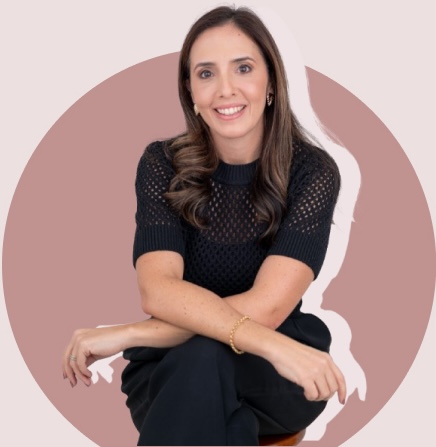
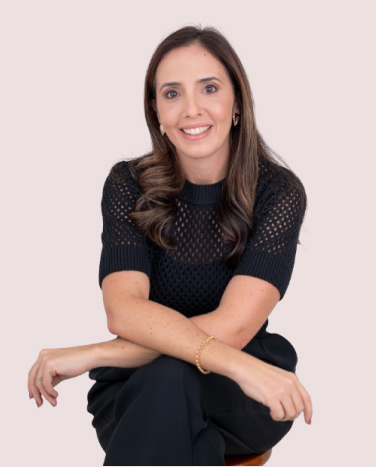
fix: replace the photo

diff --git a/dra-camila-adour/index.html b/dra-camila-adour/index.html
@@ -1,6 +1,7 @@
 <!doctype html>
 <html lang="en">
   <head>
+    <link rel="icon" type="image/svg+xml" href="/logo_favicon.ico" />
     <meta charset="UTF-8" />
     <meta name="viewport" content="width=device-width, initial-scale=1.0" />
     <title>Dra. Camila Adour</title>
